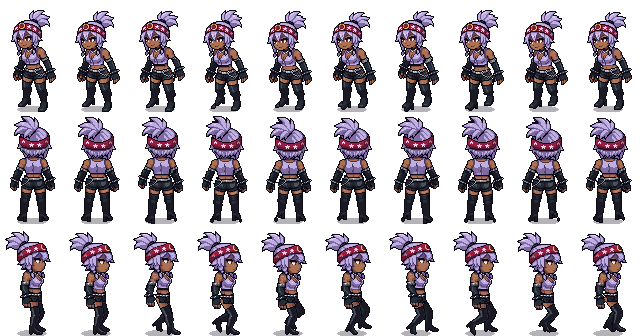
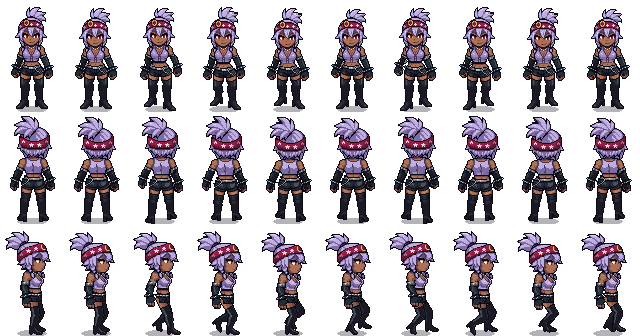
Lei di fronte, col cerchio d'oro sul lato sinistro della fascia
Il disegno nuovo di Bru (lei di fronte) e' la vista davanti: ricostruito
pixel per pixel, il cerchio d'oro spostato dal centro della fascia alla
sinistra (al centro una stella come le altre), gli stivali allungati di 5
righe per avere le stesse misure di dietro e di lato. Il passo davanti e'
simmetrico: il piede che va avanti scende, le mani verso il centro.
Le gambe prendono anche la punta degli stivali, e lei.py controlla che
nessun fotogramma abbia pezzi staccati.

Claude-Session: https://claude.ai/code/session_01AE7uzpDH1Lo1PHb29aXJxZ

Changed region(s): [[0.2188, 0.0, 0.6875, 0.3274], [0.7188, 0.0, 1.0, 0.3274], [0.0, 0.0, 0.1875, 0.3274]]

diff --git a/strumenti/protagonisti/passo.py b/strumenti/protagonisti/passo.py
@@ -157,16 +157,18 @@ class Vista:
 
 
 def davanti():
-    bs = righe_da([(47, 49, 8, 10), (50, 50, 8, 11), (51, 51, 8, 12), (52, 52, 7, 13), (53, 53, 7, 14),
-                   (54, 54, 7, 13), (55, 55, 6, 13), (56, 56, 4, 12), (57, 57, 3, 13), (58, 58, 3, 12),
-                   (59, 59, 4, 11), (60, 60, 4, 12), (61, 61, 3, 12), (62, 62, 3, 11), (63, 63, 2, 10),
-                   (64, 65, 2, 9), (66, 67, 2, 10), (68, 68, 3, 10), (69, 69, 3, 9), (70, 70, 4, 7)])
-    bd = righe_da([(37, 44, 26, 36), (45, 46, 28, 37), (47, 49, 29, 39), (50, 52, 30, 40), (53, 54, 32, 41),
-                   (55, 56, 33, 42), (57, 57, 34, 43), (58, 72, 34, 44)])
-    return Vista('davanti', coda=10, taglio=50, vita=58,
-                 braccia=[('bs', bs, 48, 56), ('bd', bd, 41, 58)],
-                 gambe_=[('gs', 11, 21, 64, (78, 87)), ('gd', 22, 36, 64, (80, 90))],
-                 dx=11, dy=10)
+    # lei di fronte (il disegno di Bru col cerchio d'oro spostato a sinistra)
+    bs = righe_da([(40, 43, 8, 11), (44, 46, 7, 11), (47, 50, 6, 11), (51, 51, 6, 9), (52, 54, 5, 11),
+                   (55, 56, 4, 12), (57, 57, 1, 12), (58, 59, 0, 9), (60, 60, 2, 8), (61, 61, 2, 9),
+                   (62, 63, 1, 8), (64, 68, 0, 8), (69, 69, 2, 7), (70, 70, 3, 6)])
+    bd = righe_da([(39, 39, 29, 31), (40, 40, 29, 32), (41, 42, 29, 33), (43, 44, 28, 33), (45, 46, 29, 34),
+                   (47, 49, 29, 35), (50, 51, 29, 36), (52, 53, 30, 37), (54, 54, 31, 37), (55, 55, 31, 38),
+                   (56, 57, 32, 38), (58, 58, 33, 41), (59, 59, 33, 42), (60, 62, 33, 41), (63, 68, 33, 41),
+                   (69, 69, 34, 40), (70, 70, 35, 39), (71, 71, 35, 38)])
+    return Vista('davanti', coda=10, taglio=50, vita=59,
+                 braccia=[('bs', bs, 47, 57), ('bd', bd, 41, 58)],
+                 gambe_=[('gs', 3, 20, 64, (78, 91)), ('gd', 21, 39, 64, (78, 91))],
+                 dx=11, dy=7)
 
 
 def dietro():
@@ -180,14 +182,13 @@ def dietro():
                    (72, 72, 36, 44), (73, 73, 37, 42), (74, 74, 39, 41)])
     return Vista('dietro', coda=11, taglio=52, vita=61,
                  braccia=[('bs', bs, 48, 61), ('bd', bd, 48, 61)],
-                 gambe_=[('gs', 10, 21, 70, (82, 92)), ('gd', 24, 36, 70, (82, 92))],
+                 gambe_=[('gs', 5, 21, 70, (82, 92)), ('gd', 24, 40, 70, (82, 92))],
                  dx=10, dy=4)
 
 
-# Davanti e dietro, il piede: dove finisce (+ giu', - su) rispetto al disegno.
-# Davanti (lei viene verso di noi) il piede che va avanti scende; nel disegno la
-# gamba destra e' gia' avanti e la sinistra dietro, e il passo parte da li'.
-# Dietro i piedi sono pari, e quello che va avanti sale.
+# Davanti e dietro, il piede: dove finisce (+ giu', - su) rispetto al disegno,
+# dove i piedi sono pari. Davanti (lei viene verso di noi) il piede che va
+# avanti scende, dietro sale.
 FONDO = 2.5                                     # mezzo passo in profondita', in righe
 PROF = (1, 0.5, 0, -0.5, -1, -0.5, 0, 0.5)      # la gamba destra: avanti (+) o dietro (-)
 ALZA = (0, 0, 0, 0, 0, 2, 3, 1)                 # e quanto e' in aria
@@ -203,11 +204,10 @@ def tempi_davanti_dietro(vista):
         dentro_d = -1 if ALZA[t] >= 2 else 0          # la gamba destra in aria va verso il centro
         dentro_s = 1 if ALZA[tl] >= 2 else 0
         if vista == 'davanti':
-            # di tre quarti, avanti e' anche un poco a sinistra
-            gd = (round(FONDO * (PROF[t] - 1) - ALZA[t]), -1 if PROF[t] > 0.6 else dentro_d)
-            gs = (round(FONDO * (PROF[tl] + 1) - ALZA[tl]), -1 if PROF[tl] > 0.6 else dentro_s)
+            gd = (round(FONDO * PROF[t] - ALZA[t]), dentro_d)
+            gs = (round(FONDO * PROF[tl] - ALZA[tl]), dentro_s)
             # la mano va avanti (scende e va verso il centro) con la gamba dell'altra parte
-            braccia = {'bs': (round(1.5 * PROF[t]), round(-PROF[t])), 'bd': (round(1.5 * PROF[tl]), round(-PROF[tl]))}
+            braccia = {'bs': (round(1.5 * PROF[t]), round(PROF[t])), 'bd': (round(1.5 * PROF[tl]), round(-PROF[tl]))}
         else:
             gd = (round(-FONDO * PROF[t] - ALZA[t]), dentro_d)
             gs = (round(-FONDO * PROF[tl] - ALZA[tl]), dentro_s)

diff --git a/strumenti/protagonisti/corpo.py b/strumenti/protagonisti/corpo.py
@@ -2,17 +2,20 @@
 # ferma in lei/*.txt, una lettera per pixel. passo.py ne fa il passo, lei.py
 # scrive il foglio del gioco (art/pianeti/protagonista/lei.png).
 #
-# Bru ha mandato tre disegni in pixel (il giro davanti, dietro e di lato, lei
-# grande di tre quarti, lei in posa) e ha scelto la misura dei disegni. Le
-# viste sono ricostruite pixel per pixel dai disegni (ricostruisci.py: i JPG
-# sono ingranditi, ogni pixel del disegno e' un quadretto) e poi ripulite a
-# mano:
-#   - davanti: dal disegno grande (22.jpg), il piu' nitido, com'e';
+# Bru ha mandato i disegni in pixel (il giro davanti, dietro e di lato, lei
+# grande di tre quarti, lei in posa, poi lei di fronte) e ha scelto la misura
+# dei disegni. Le viste sono ricostruite pixel per pixel dai disegni
+# (ricostruisci.py: i JPG sono ingranditi, ogni pixel del disegno e' un
+# quadretto; le griglie sono in fogli/) e poi ripulite a mano:
+#   - davanti: lei di fronte, com'e', col cerchio d'oro spostato dal centro
+#     della fascia alla sinistra (Bru: «puoi spostare il cerchio d'oro che ha
+#     in centro sul lato sinistro?»; al centro ora c'e' una stella come le
+#     altre) e gli stivali allungati di 5 righe;
 #   - dietro e di lato: dal giro (21.jpg), piu' piccolo e sporco dal JPG: la
 #     fascia ridisegnata (curva dietro, con quattro stelle; di lato col cerchio
 #     d'oro sul davanti), il viso di profilo, la spallina, la cintura a catena;
-#     dietro gli stivali allungati di 7 righe (nel giro erano piu' corti che
-#     davanti e di lato: girandosi lei cambiava altezza);
+#     dietro gli stivali allungati di 7 righe (nei disegni erano piu' corti
+#     che di lato: girandosi lei cambiava altezza);
 #   - di lato le gambe non ci sono: le disegna gambe.py, articolate.
 # Le stesse misure in tutte e tre: la cintura a 41 pixel da terra, le spalle a 62.
 #

diff --git a/strumenti/protagonisti/lei.py b/strumenti/protagonisti/lei.py
@@ -20,6 +20,19 @@ import png
 OMBRA = (18, 12, 24, 80)
 
 
+def un_pezzo(f):
+    """il fotogramma e' tutto attaccato (niente pezzi rimasti indietro)"""
+    resto = set(f)
+    q = [resto.pop()]
+    while q:
+        x, y = q.pop()
+        for v in ((x + 1, y), (x - 1, y), (x, y + 1), (x, y - 1)):
+            if v in resto:
+                resto.remove(v)
+                q.append(v)
+    return not resto
+
+
 def foglio_del_gioco():
     W, H = passo.W, passo.H
     righe = passo.foglio()
@@ -29,6 +42,7 @@ def foglio_del_gioco():
         for colonna, f in enumerate(fotogrammi):
             for (x, y), ch in f.items():
                 assert 0 <= x < W and 0 <= y < H, (riga, colonna, x, y)
+            assert un_pezzo(f), ('un pezzo staccato', riga, colonna)
             for y in range(H):
                 for x in range(W):
                     ch = f.get((x, y))
